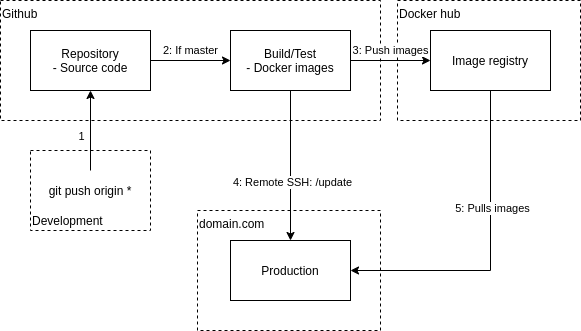
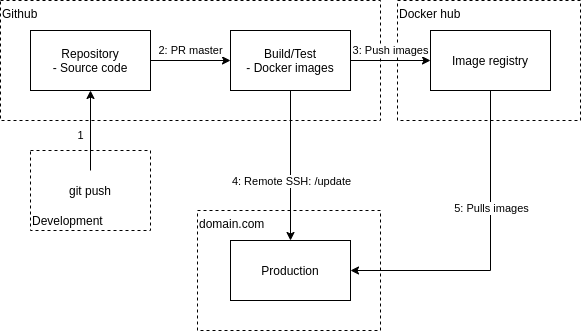
Updated images and added som text for CI/CD (#24)

diff --git a/README.md b/README.md
@@ -24,11 +24,11 @@ Benefits using this development environment:
 
 Docker Compose/Swarm
 
-### Deploy:
+### Info:
 
 - The deployment uses prebuilt images from docker hub, built with github actions
 
-### Run with Docker Compose:
+### Deploy with Docker Compose:
 
 ```
 docker-compose up
@@ -36,7 +36,7 @@ docker-compose up
 
 Hosts the application on http://localhost:4011
 
-### Run (or update) with Docker Swarm
+### Deploy (or update) with Docker Swarm
 
 Prerequisites:
 
@@ -46,17 +46,23 @@ Prerequisites:
 docker stack deploy --compose-file docker-compose.yml --with-registry-auth stack-secfit
 ```
 
-Hosts the application on http://localhost:4011 with default settings
+Hosts the application on http://localhost:4011
 
 ## CI/CD Pipeline
 
 ### Master branch
-
+The following figure represents the CI/CD pipeline on master branch:
 ![Pipeline master](./documentation/Pipeline_Master.png "Pipeline Master")
+
+1. Developers push code to github
+2. A PR to master branch is created. On merge, a new docker image per service is built. While building the image, tests are executed.
+3. After github actions has built the images they are pushed to docker hub.
+4. A github action connects to the production server using SSH and executes a script `./update`.
+5. This script tells docker swarm to update the services. Docker swarm pulls the new images from docker hub, and restarts the services using these images.
 
 ### All branches
 
-- All branches are built and tested on push and pull requests
+- There are built docker images containing tests, on push and pull requests for all branches
 
 ## Production environment
 The following figure represents the running services in the production environment:
